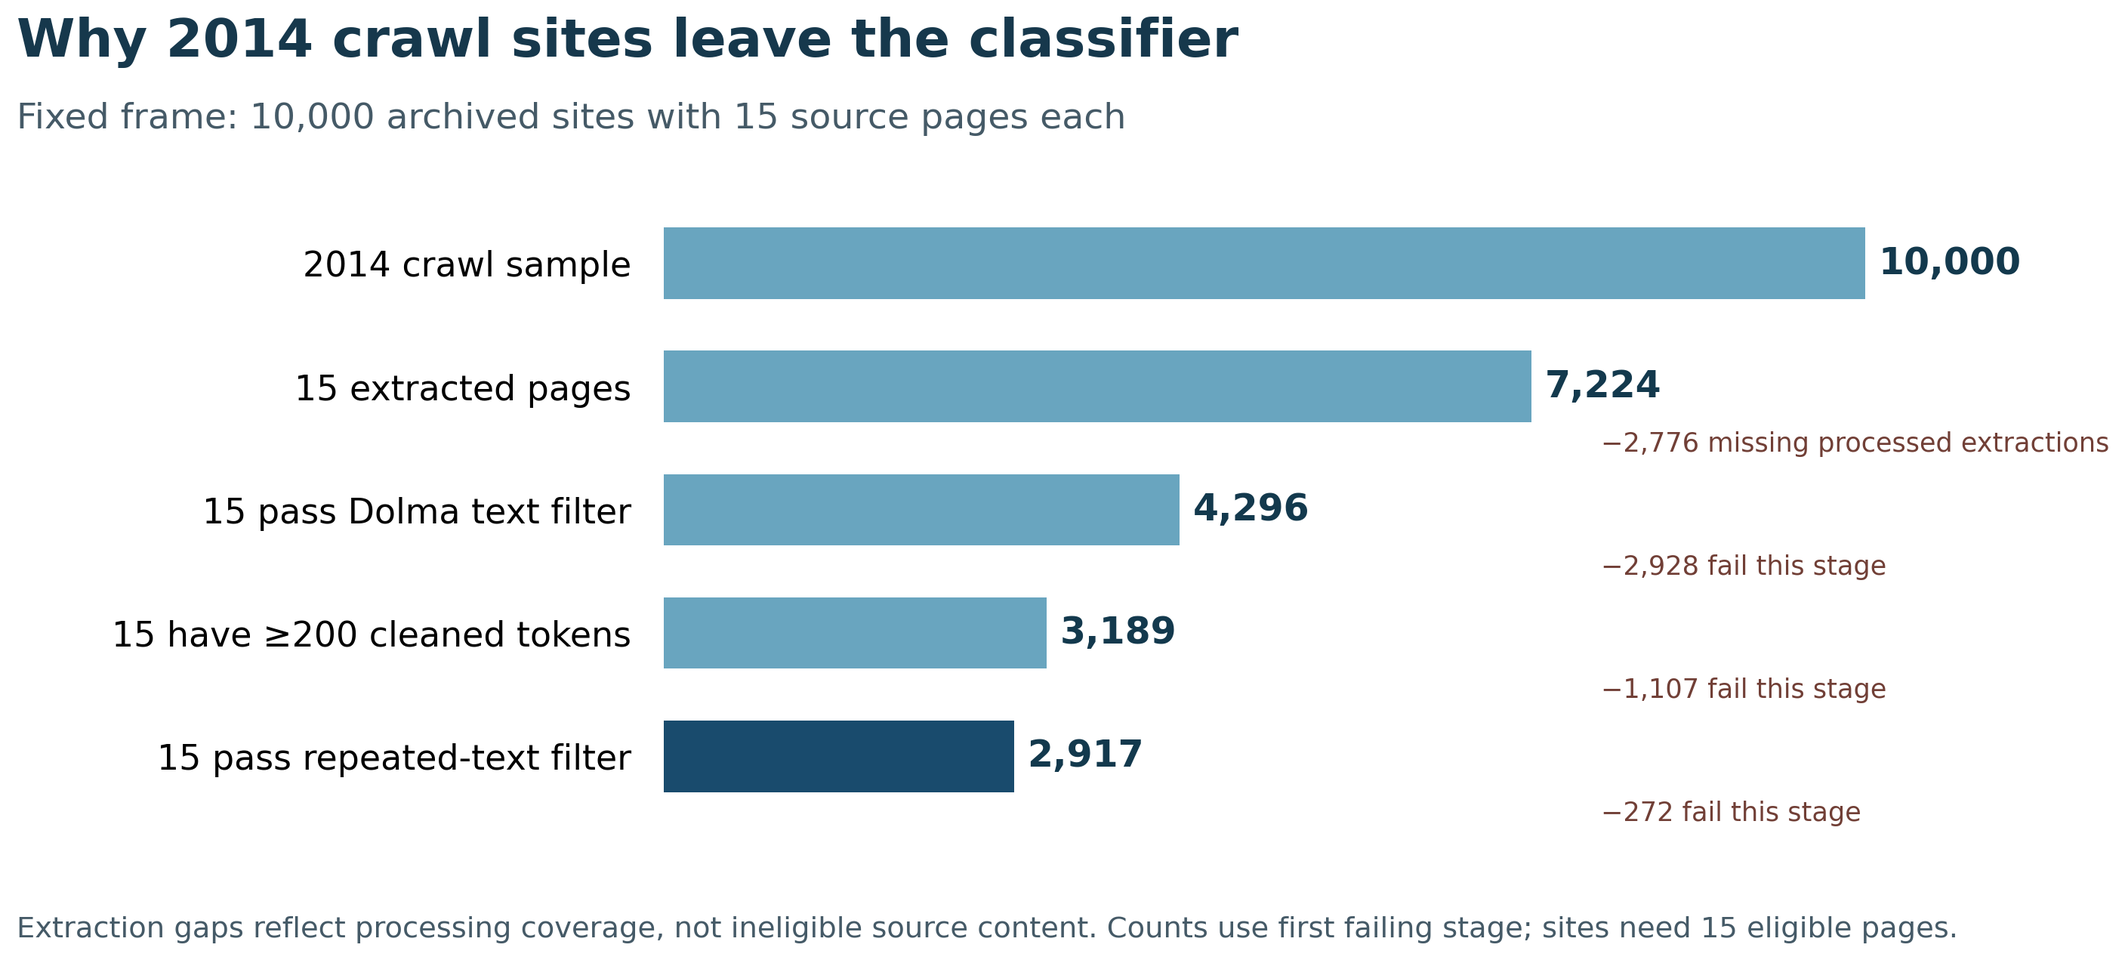
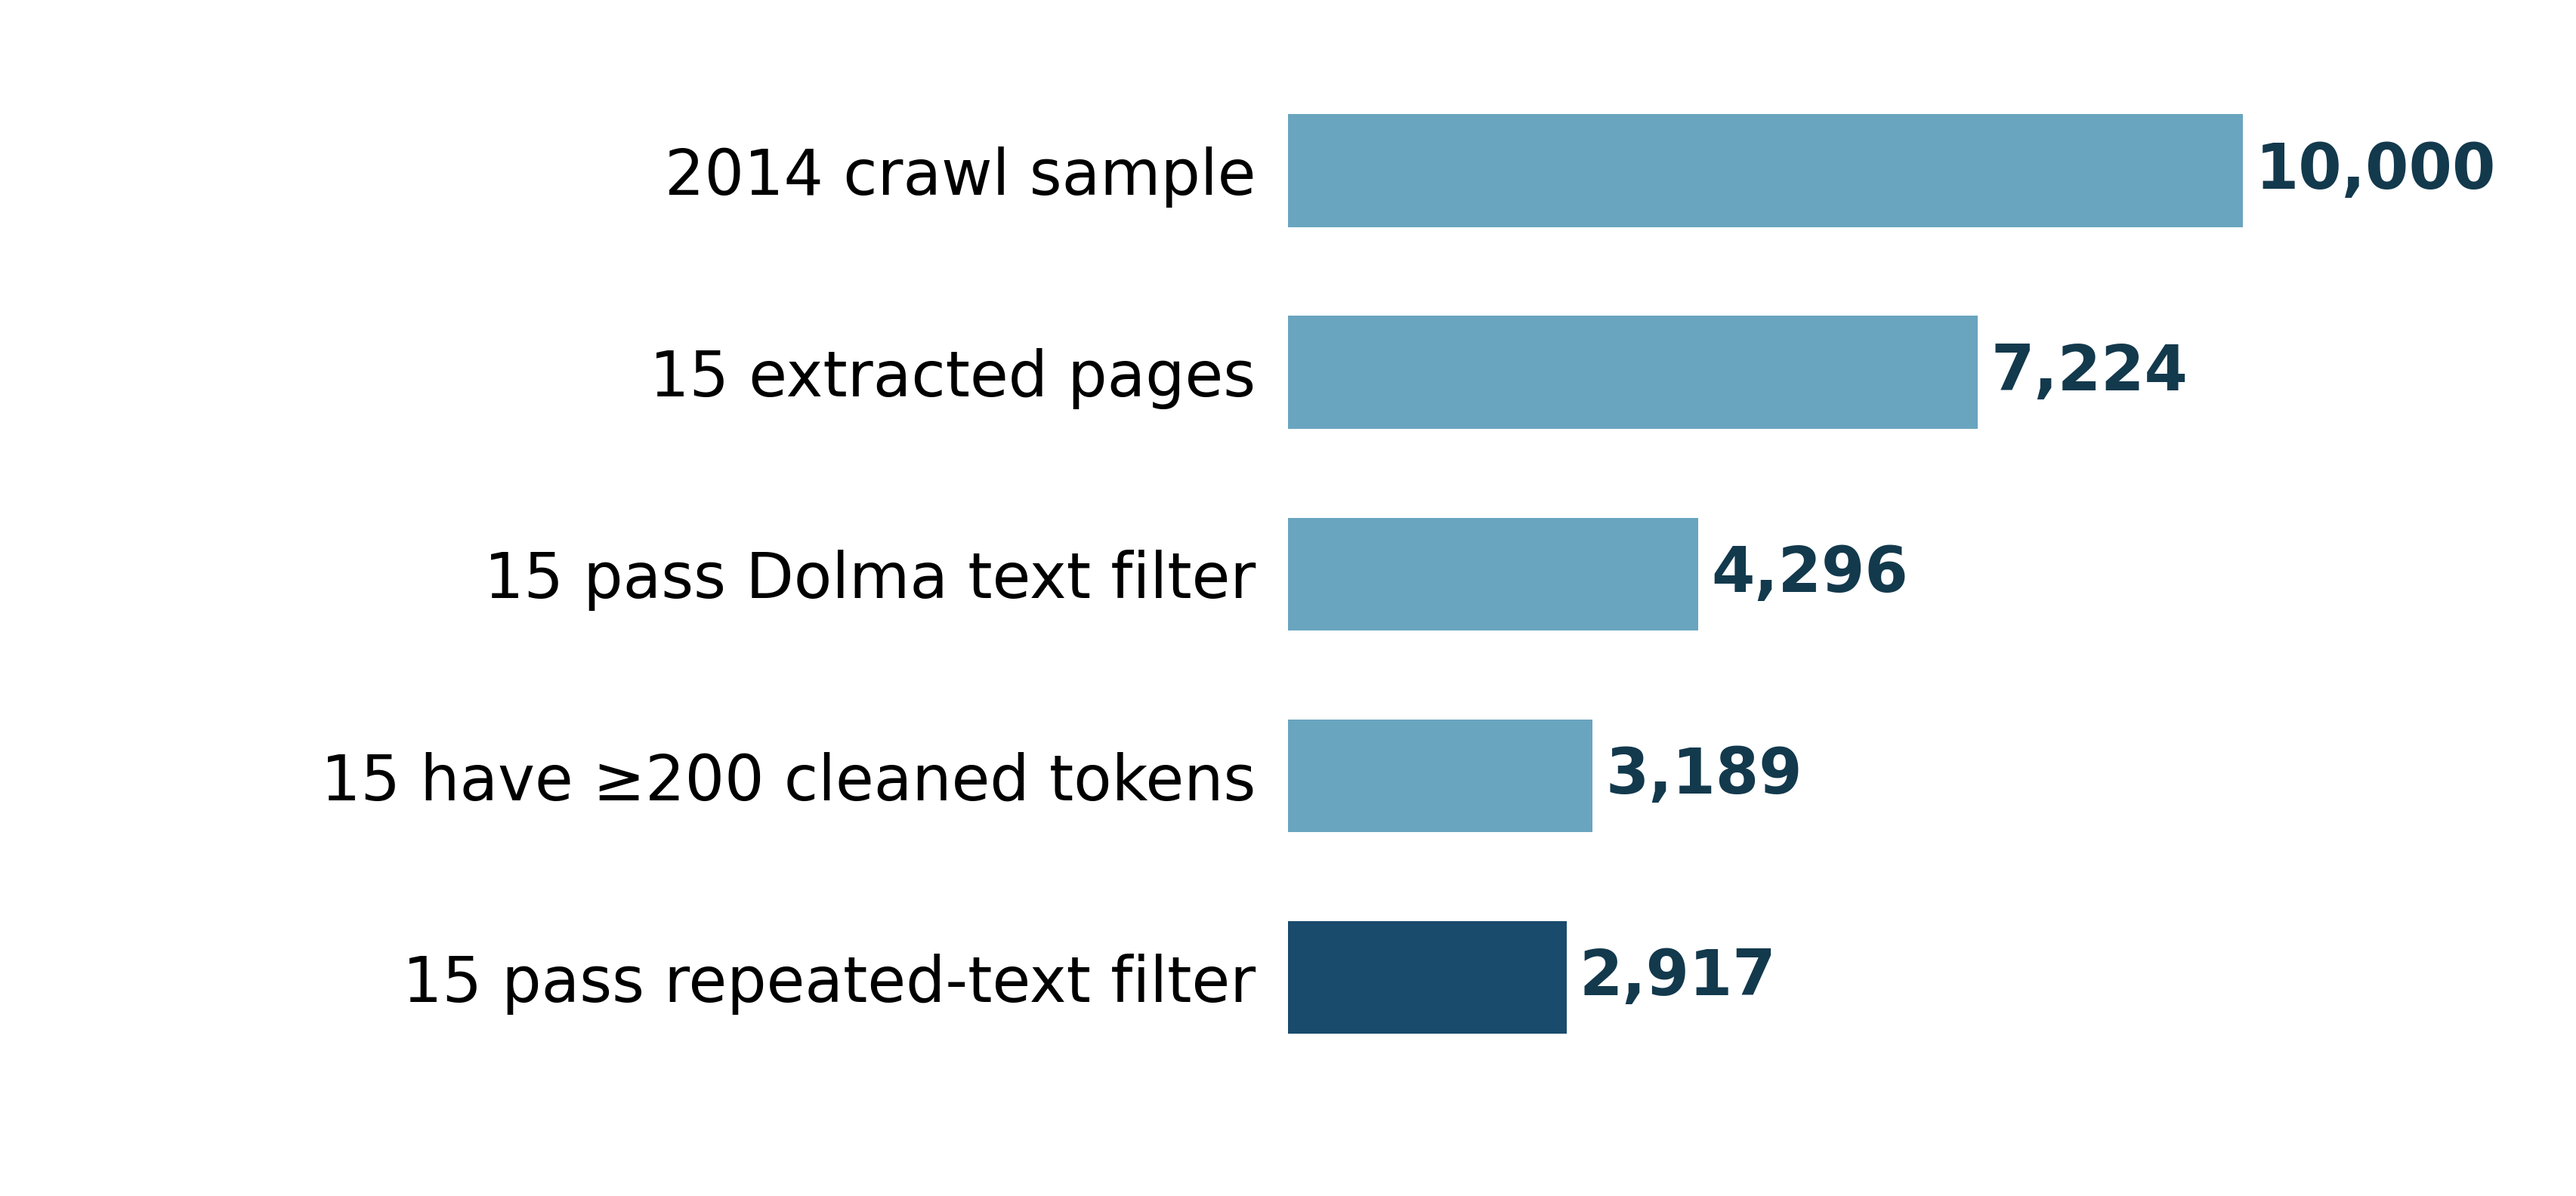
feat(slides): sharpen methodology visuals and provenance

diff --git a/style.css b/style.css
@@ -29,6 +29,7 @@
 .slidev-layout h1 {
   color: #162337 !important;
   font-size: 3.5rem !important;
+  font-weight: 700;
   line-height: 1.08;
 }
 
@@ -210,8 +211,8 @@
 
 .slidev-layout .site-examples {
   display: flex;
-  justify-content: space-around;
-  gap: 2rem;
+  justify-content: center;
+  gap: 0.5rem;
   height: 21rem;
   margin-top: 0.5rem;
 }
@@ -242,6 +243,20 @@
   background: linear-gradient(to right, rgba(255,255,255,.8) 0 var(--focus-start), transparent var(--focus-start) var(--focus-end), rgba(255,255,255,.8) var(--focus-end) 100%);
   pointer-events: none;
 }
+
+.slidev-layout .extract-lead {
+  display: flex;
+  align-items: center;
+  gap: 1.5rem;
+  margin-top: 0.5rem;
+}
+
+.slidev-layout .extract-lead img {
+  width: 19rem;
+  height: 4.5rem;
+  object-fit: contain;
+}
+
 
 .slidev-layout .bar-study {
   margin-top: 2rem;
@@ -290,7 +305,7 @@
 .slidev-layout .method-plot {
   display: block;
   width: 100%;
-  height: 20rem;
+  height: 29rem;
   object-fit: contain;
   margin: 0 auto;
 }

diff --git a/slides.md b/slides.md
@@ -58,7 +58,7 @@ Web content noise
 ---
 
 Cannot tell ground truth:
-- *SoTA forgeries are almost indistinguishable from “real” media* (Frank, SP2024)
+- *SoTA forgeries are almost indistinguishable from “real” media* (SP 2024)
 - …Unless we generated
 
 ---
@@ -106,32 +106,38 @@ Narrow down measured target
 
 <div class="pipeline-highlight" style="--focus-start:33%;--focus-end:47%"><img src="/paper/degentweb_pipeline.png" alt="Content extraction is highlighted in the six-stage pipeline"/></div>
 
-- Trafilatura: reader-mode prose
+<div class="extract-lead"><img src="/paper/trafilatura-logo.png" alt="Trafilatura logo"/><span>(ACL 2021)</span></div>
+
+- Reader-mode body text extraction
 - Not assets, markup, or layout
+
+---
+
+<ul class="challenge-list-plain"><li>Cannot sample whole web</li><li>Text detectors inaccurate</li><li class="active">Web content noisy</li><li>No ground truth</li></ul>
 
 ---
 
 <div class="pipeline-highlight" style="--focus-start:49%;--focus-end:62%"><img src="/paper/degentweb_pipeline.png" alt="Page filtering is highlighted in the six-stage pipeline"/></div>
 
-- Remove poor-quality and repeated text
-- Abstain if fewer than 15 pages survive
+- Long enough: ≥200 tokens
+- Dolma Quality Filter
+- Repeated text: ≤50% bytes
 
 ---
 
-Which pages count?
+# Dolma Quality Filter (AI2 2024)
 
-- Extracted English prose: ≥200 tokens
-- Dolma text-quality filter
-- Repeated text: ≤50% of extracted bytes
+- Reject excessive repetition and list-like text
+- Reject low linguistic quality
+- Relax punctuation-line cutoff for web boilerplate
+
+---
+
+Aggregate pages into one site call
+
 - ≥15 eligible pages per site
-
----
-
-No label ≠ negative label
-
-<img class="method-plot" src="/paper/cc2014_site_attrition.png" alt="Among 10,000 archived CC2014 sites with 15 source pages, 2,917 reached classification; other processing and page filters abstain"/>
-
-<div class="visual-caption">2014 cohort · missing extractions do not prove ineligible source text</div>
+- Nine deciles of page-level Binoculars scores
+- Linear SVM assigns a positive or other call
 
 ---
 
@@ -139,35 +145,45 @@ No label ≠ negative label
 
 ---
 
-We need a labeled baseline
+# Common Crawl (CC)
 
-- Generate Wix sites from company topics
-- Generate B12 sites from personal-blog topics
-- Hold out entire generated sites for evaluation
-
----
-
-Build whole generated sites
-
-<div class="site-examples"><img src="/prior/wix-post-creator-original.jpg" alt="Original Wix AI Post Creator embedded image from the prior talk"/><img src="/prior/wix-generated-example-original.jpg" alt="Original embedded image of the Joint Journey generated Wix site from the prior talk"/></div>
-
-<div class="visual-caption">Original Wix UI and generated-site images · prior talk 3</div>
+- Largest archive of the open web
+- Collected regularly since 2008
 
 ---
 
-Body swaps test new layouts
+# Negative baseline
 
-- Keep original templates
-- Replace article prose with generated text
-- Test new layouts, not a new builder
+- Common Crawl archives from 2014
+    - predate modern language models
+    - 10k sites
+- Common practice in LLM detection
 
 ---
 
-Historical controls are proxies
+# AI Website builders
 
-- CC2014 pages predate modern public LLMs
-- Their individual authorship is not verified
-- A positive site call is a **proxy** false positive
+<div class="site-examples"><img src="/prior/wix-post-creator-original.jpg" alt="Original Wix AI Post Creator image embedded in the previous presentation"/><img src="/prior/wix-generated-example-original.jpg" alt="Original generated Wix site image embedded in the previous presentation"/></div>
+
+---
+
+# AI Website builders
+
+- Generate sites with Wix.com/B12.io
+- Based on descriptions of real sites
+- Generate home pages and blog posts
+
+---
+
+Need lots of clicking
+
+---
+
+# Swap existing site bodies
+
+- Retain layout/boilerplate
+- OpenRouter/Bedrock → text → swap body
+- Eight LLMs: GPT-3.5/4/OSS-120B, Mixtral, Llama 3.3, Haiku 4.5, Sonnet 4/4.6
 
 ---
 
@@ -180,14 +196,6 @@ One page cannot describe a site
 <img class="paper-plot cdf-plot" src="/paper/cdf_new_baseline_binoculars.png" alt="Binoculars page-score distributions from five selected CC2014, five Wix, and five B12 sites; fifteen scored pages per site, not accuracy or a population estimate"/>
 
 <div class="cdf-caption">Selected 5 CC2014 + 5 Wix + 5 B12 sites · 15 pages per site · not an accuracy estimate</div>
-
----
-
-Site-level decision
-
-- Binoculars scores each retained page
-- Nine score deciles summarize the site
-- A linear SVM assigns the site call
 
 ---
 
@@ -403,3 +411,15 @@ Backup: denominator details
 - CC: 409,805 retained; 94,908 qualified
 - Bing: 59,046 result sites; 18,169 qualified
 - Top-ten calls: 4,532 / 10,000 matched queries
+
+---
+
+<img class="method-plot" src="/paper/cc2014_site_attrition.png" alt="Among 10,000 archived 2014 sites, 2,917 reach classification after extraction and page filters"/>
+
+---
+
+Missing extractions ≠ negative labels
+
+- 10,000 archived sites; 15 source pages each
+- 2,776 sites lack 15 processed extractions
+- Processing gap, not proven ineligibility

diff --git a/README.md b/README.md
@@ -12,7 +12,7 @@ The earlier presentations are:
 - [Talk 2](https://docs.google.com/presentation/d/1PHiPwkIvFBgtEKWSVPwUkWSygKkjqfO-lWImE-s5Nyc/edit)
 - [Talk 3](https://docs.google.com/presentation/d/1ZGh9lTAzUyrYv2m6tjD6l5HLP-c7y94uY0D9Ug8N1Qw/edit)
 
[2 lines of base64/hex data omitted]
 
 The newer page-score CDF at `public/paper/cdf_new_baseline_binoculars.png` comes from `dw2/data/classify/baselines/cdf_new_baseline_binoculars.png`; its adjacent manifest records the fifteen selected sites and their production-cleaned Binoculars scores. Five sites per CC2014, Wix, and B12 cohort contribute fifteen scored pages each. It illustrates within-site score variation, not population prevalence or classifier accuracy. The three descriptive wild-site bar charts were independently plotted from `dw-learning-curve-paper/sections/{wild,cc-rise,incentives}.tex` at source commit `ebadfdaa257e9fd25f7451fd084c8b04db278641`; their audited counts, source hashes, and image hashes are in `/tmp/dw-wild-bars-source2281/manifest.json`. The site-level cohorts, query sample, and selected equal-sized characterization groups are distinct. The bars show classifier calls or category-proxy labels, not verified authorship or actual financial motives.
 
